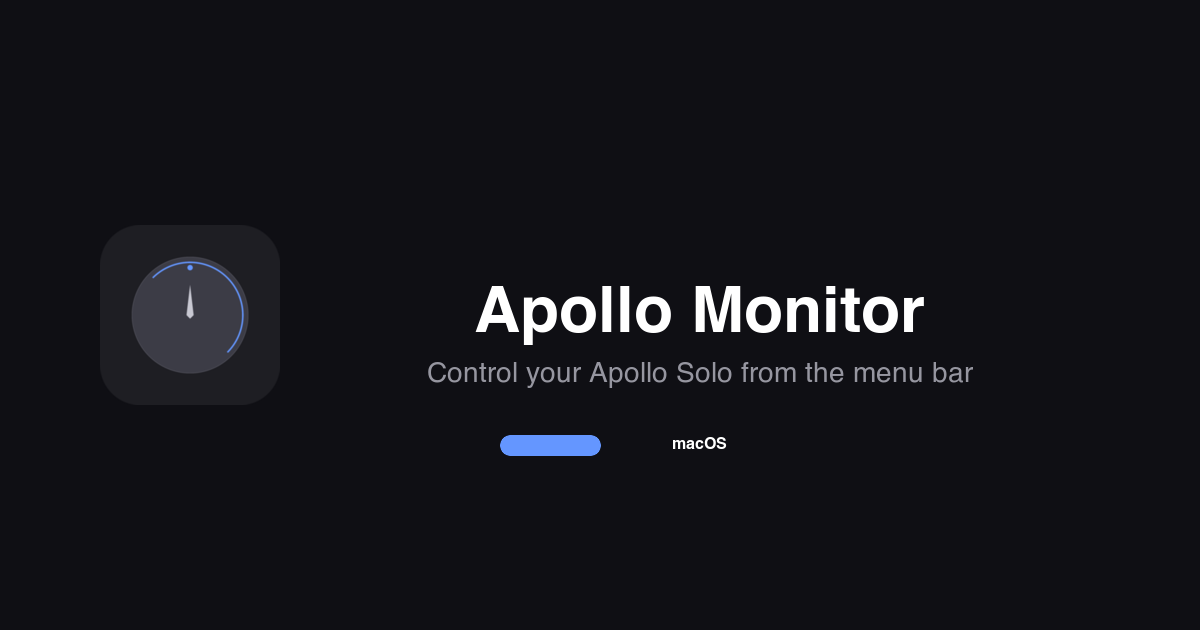
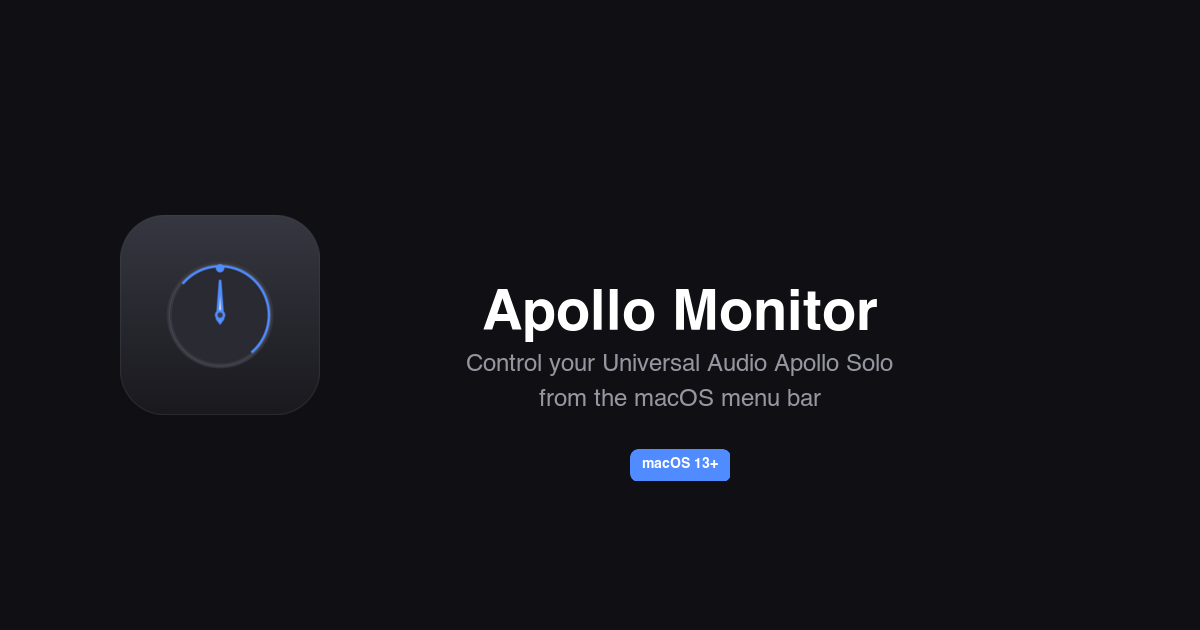
Fix macOS 13 compatibility and update visuals
- Fix onChange syntax for macOS 13 compatibility
- Update preview banner with new icon
- Update DMG backgrounds with new icon

Changed region(s): [[0.3392, 0.4524, 0.8017, 0.7841], [0.0925, 0.3317, 0.2775, 0.6032]]

diff --git a/ApolloMonitor/SettingsView.swift b/ApolloMonitor/SettingsView.swift
@@ -28,7 +28,7 @@ struct SettingsView: View {
         Form {
             Section {
                 Toggle("Launch at Login", isOn: $launchAtLogin)
-                    .onChange(of: launchAtLogin) { _, newValue in
+                    .onChange(of: launchAtLogin) { newValue in
                         setLaunchAtLogin(newValue)
                     }
 
